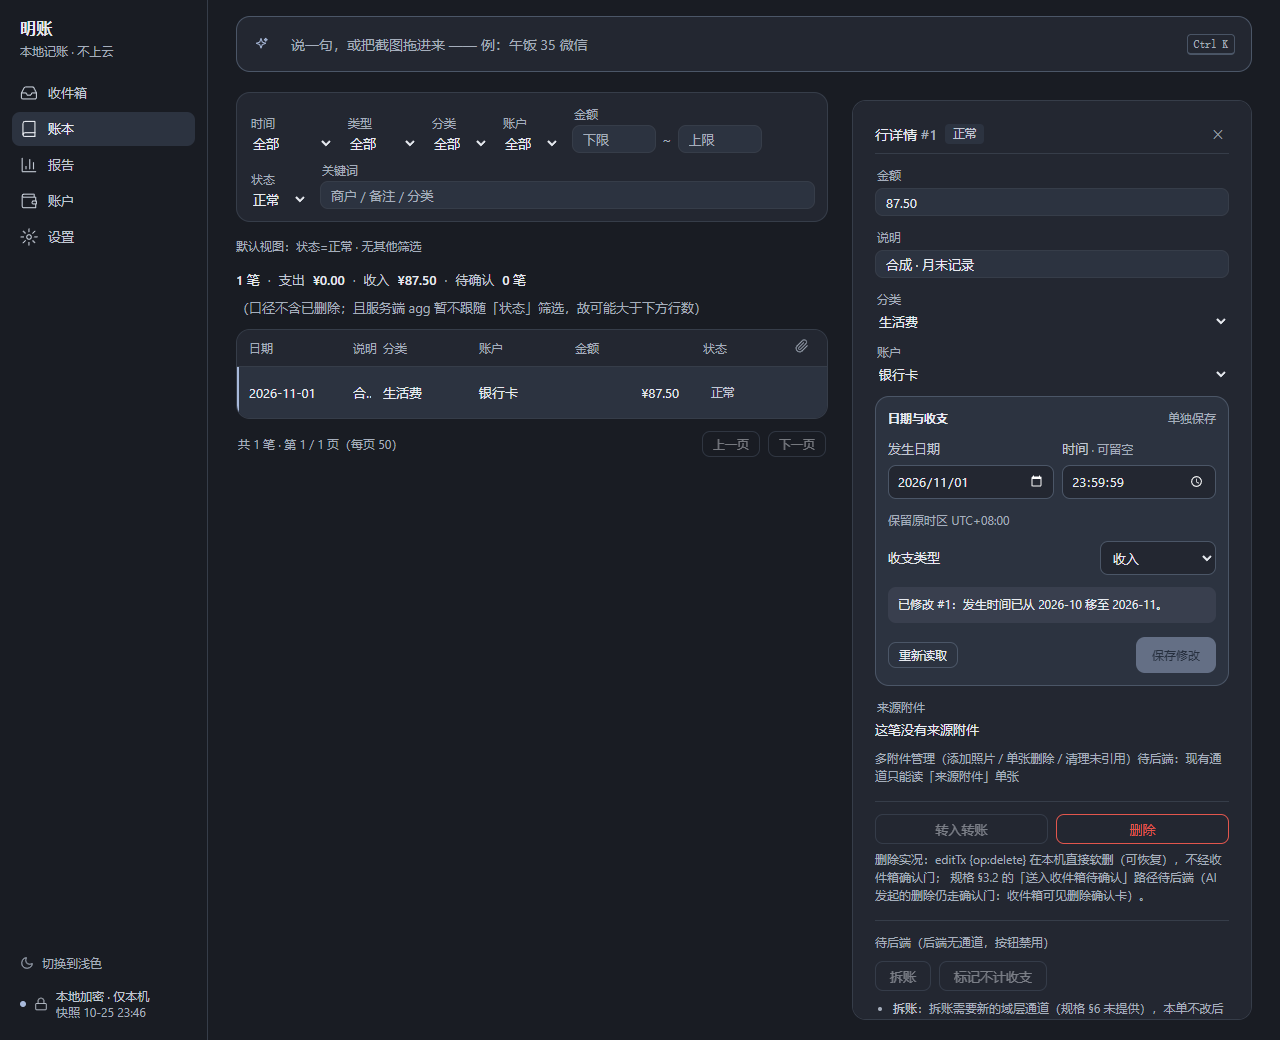
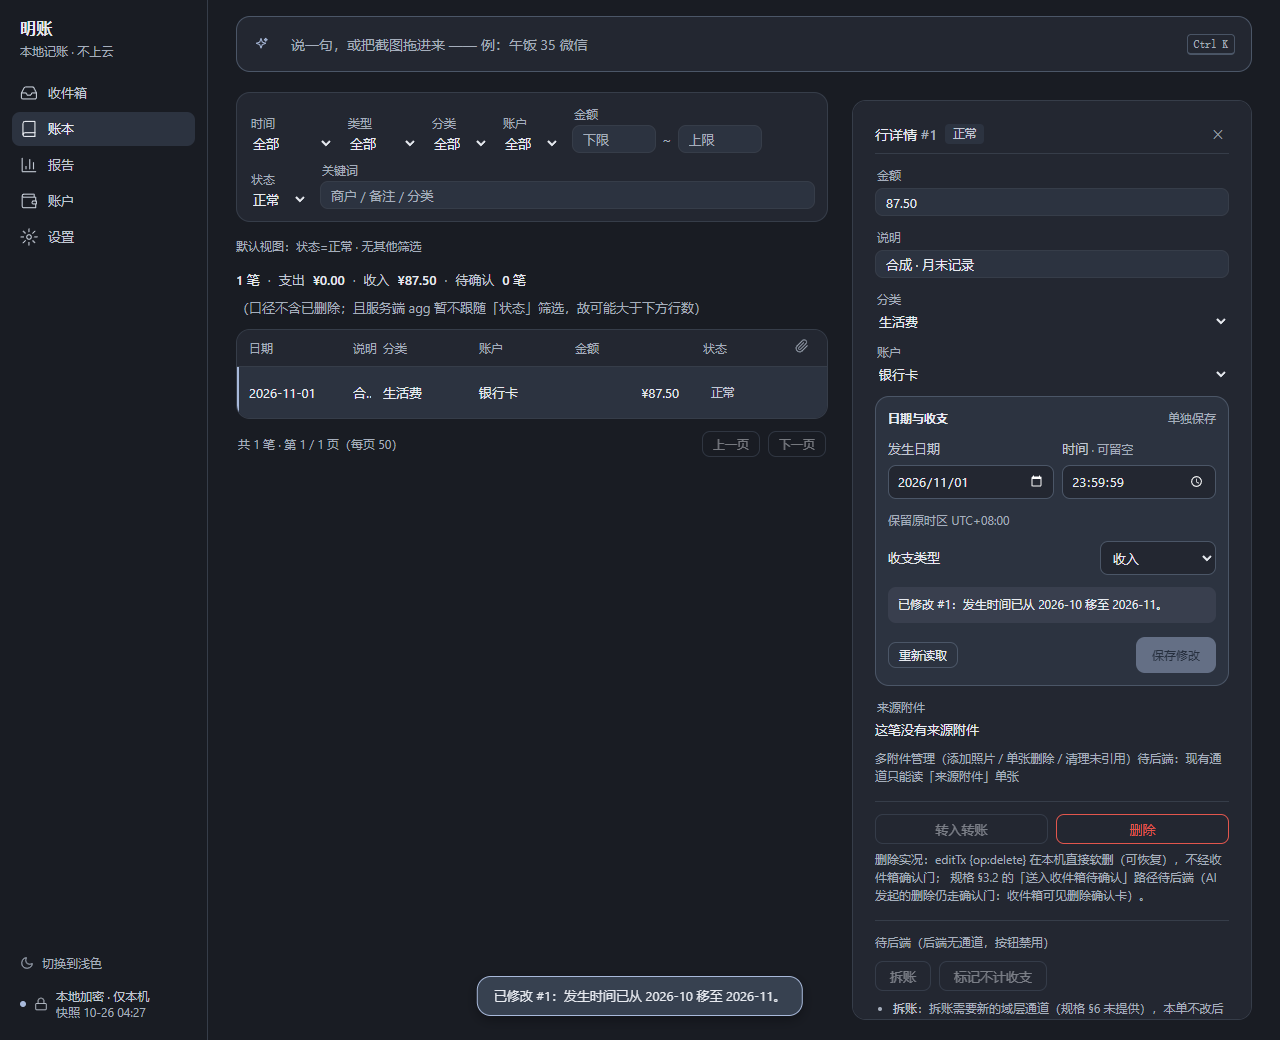
fix(ledger): retain date edit receipt after filtered detail unmounts (#26)

Changed region(s): [[0.375, 0.9231, 0.625, 0.9846], [0.0938, 0.9538, 0.125, 0.9846]]

diff --git a/tests/ui/transaction-date-type-filtered.spec.ts b/tests/ui/transaction-date-type-filtered.spec.ts
@@ -1,0 +1,137 @@
+// Parent-owned SPEC-F1 regression: real Electron, synthetic paired data/profile only.
+import { test, expect, _electron, type ElectronApplication, type Page } from '@playwright/test'
+import { mkdtempSync, writeFileSync } from 'node:fs'
+import { tmpdir } from 'node:os'
+import { join } from 'node:path'
+
+let app: ElectronApplication | undefined
+let page: Page
+let data: string
+let txId: number
+const errors: string[] = []
+const sourceDate = '2036-05-31T18:07:26+05:45'
+const targetDate = '2036-06-01T18:07:26+05:45'
+
+async function sql(statement: string, params: unknown[] = []): Promise<any[]> {
+  return app!.evaluate(({ safeStorage }, input) => {
+    const fs = process.getBuiltinModule('fs')!
+    const path = process.getBuiltinModule('path')!
+    const mod = process.getBuiltinModule('module')!
+    if (!path.basename(input.data).startsWith('mz-date-receipt-')) throw Error('NOT SYNTHETIC')
+    const file = path.join(input.data, 'mingzhang.db')
+    if (!fs.existsSync(file)) throw Error('MISSING SYNTHETIC DB')
+    const Constructor = mod.createRequire(path.join(process.cwd(), 'package.json'))('better-sqlite3-multiple-ciphers')
+    const key = safeStorage.decryptString(fs.readFileSync(path.join(input.data, 'secrets/db.key')))
+    const db = new Constructor(file, { fileMustExist: true })
+    try {
+      db.pragma(`key = "x'${key}'"`)
+      db.pragma("cipher='chacha20'")
+      db.pragma('foreign_keys=ON')
+      if (input.statement.startsWith('SELECT')) return db.prepare(input.statement).all(...input.params)
+      db.prepare(input.statement).run(...input.params)
+      return []
+    } finally {
+      db.close()
+    }
+  }, { data, statement, params })
+}
+
+async function open(filtered: boolean): Promise<void> {
+  await page.getByTestId('nav-ledger').click()
+  await page.getByTestId('ledger-f-state').selectOption('confirmed')
+  await page.getByTestId('ledger-f-month').selectOption(filtered ? 'custom' : 'all')
+  if (filtered) await page.getByTestId('ledger-f-month-custom').fill('2036-05')
+  await page.locator(`[data-testid="ledger-row"][data-id="${txId}"]`).click()
+  await expect(page.getByTestId('ledger-date-type')).toHaveAttribute('aria-busy', 'false')
+  await expect(page.getByTestId('ledger-edit-date')).toHaveValue('2036-05-31')
+}
+
+const facts = async () => ({
+  transactions: await sql('SELECT * FROM transactions ORDER BY id'),
+  audits: await sql('SELECT * FROM audit_log ORDER BY id'),
+  pending: await sql('SELECT * FROM pending_clarifications ORDER BY id'),
+  sequence: await sql('SELECT * FROM sqlite_sequence ORDER BY name'),
+})
+
+test.beforeEach(async () => {
+  errors.length = 0
+  data = mkdtempSync(join(tmpdir(), 'mz-date-receipt-data-'))
+  const profile = mkdtempSync(join(tmpdir(), 'mz-date-receipt-profile-'))
+  const theme = test.info().title.includes('dark') ? 'dark' : 'light'
+  writeFileSync(join(data, 'config.json'), JSON.stringify({
+    version: 2, onboarded: true, mock: false, theme, providers: [], activeProviderId: null,
+  }))
+  app = await _electron.launch({
+    executablePath: process.env.MZ_PACKAGE_EXE,
+    args: [...(process.env.MZ_PACKAGE_EXE ? [] : ['.']), `--user-data-dir=${profile}`],
+    env: { ...process.env, MZ_DATA_DIR: data } as Record<string, string>,
+  })
+  page = await app.firstWindow()
+  page.on('pageerror', (error) => errors.push(String(error)))
+  await page.waitForSelector('.mz-shell')
+  const category = (await sql("SELECT id FROM categories WHERE kind='expense' AND name='购物'"))[0].id
+  await sql("INSERT INTO transactions(account_id,category_id,amount_cents,type,occurred_at,state,merchant,source_message_id,created_at,updated_at) VALUES(3,?,26317,'expense',?,'confirmed','合成筛选回执','synthetic-filtered-receipt','2020-01-02','2020-01-03')", [category, sourceDate])
+  txId = (await sql("SELECT id FROM transactions WHERE source_message_id='synthetic-filtered-receipt'"))[0].id
+})
+
+test.afterEach(async () => {
+  await app?.close()
+  app = undefined
+})
+
+test('全部时间跨月保存保留原行详情与原有局部成功回执（正控）', async () => {
+  await open(false)
+  await page.getByTestId('ledger-edit-date').fill('2036-06-01')
+  await page.getByTestId('ledger-save-date-type').click()
+  await expect(page.getByTestId('ledger-detail')).toBeVisible()
+  await expect(page.getByTestId('ledger-date-type-notice')).toContainText('2036-06')
+  expect((await sql('SELECT occurred_at FROM transactions WHERE id=?', [txId]))[0].occurred_at).toBe(targetDate)
+  expect(errors).toEqual([])
+})
+
+for (const theme of ['light', 'dark']) {
+  test(`月份筛选跨月移出后外层成功回执仍可见且账审计准确 ${theme}`, async () => {
+    await open(true)
+    const before = (await sql('SELECT * FROM transactions WHERE id=?', [txId]))[0]
+    const pending = await sql('SELECT * FROM pending_clarifications ORDER BY id')
+    await page.getByTestId('ledger-edit-date').fill('2036-06-01')
+    await page.getByTestId('ledger-save-date-type').click()
+    await expect(page.locator(`[data-testid="ledger-row"][data-id="${txId}"]`)).toHaveCount(0)
+    await expect(page.getByTestId('ledger-detail')).toHaveCount(0)
+    const toast = page.getByTestId('toast')
+    // This assertion is the old production UI's actual RED, not a static-code assertion.
+    await expect(toast).toBeVisible({ timeout: 3000 })
+    await expect(toast).toContainText('2036-05')
+    await expect(toast).toContainText('2036-06')
+    expect(await toast.evaluate((element) => element.closest('[data-testid="ledger-detail"]') === null)).toBe(true)
+    await page.evaluate(() => new Promise<void>((resolve) => requestAnimationFrame(() => requestAnimationFrame(() => resolve()))))
+    await expect(toast).toBeVisible()
+    await page.screenshot({ path: test.info().outputPath(`filtered-toast-${theme}.png`) })
+    const after = (await sql('SELECT * FROM transactions WHERE id=?', [txId]))[0]
+    expect(after).toEqual({ ...before, occurred_at: targetDate, updated_at: after.updated_at })
+    expect(await sql('SELECT * FROM pending_clarifications ORDER BY id')).toEqual(pending)
+    const audits = await sql("SELECT * FROM audit_log WHERE entity_type='transaction' AND entity_id=? AND change_type='update'", [txId])
+    expect(audits).toHaveLength(1)
+    expect(audits[0].changed_by).toBe('user')
+    expect(JSON.parse(audits[0].before_value).occurred_at).toBe(sourceDate)
+    expect(JSON.parse(audits[0].after_value).occurred_at).toBe(targetDate)
+    expect(await sql("SELECT COALESCE(SUM(amount_cents),0) cents FROM v_reportable_transactions WHERE occurred_at LIKE '2036-05%'")).toEqual([{ cents: 0 }])
+    expect(await sql("SELECT SUM(amount_cents) cents FROM v_reportable_transactions WHERE occurred_at LIKE '2036-06%'")).toEqual([{ cents: 26317 }])
+    expect(await page.evaluate(() => window.mz.listLedger({ month: '2036-05', state: 'confirmed' }))).toMatchObject({ items: [] })
+    expect(errors).toEqual([])
+  })
+}
+
+test('月份筛选中的过期保存不发成功回执，不重放草稿且所有业务表零写', async () => {
+  await open(true)
+  await page.getByTestId('ledger-edit-date').fill('2036-06-01')
+  await sql("UPDATE transactions SET merchant='合成并发修改' WHERE id=?", [txId])
+  const before = await facts()
+  await page.getByTestId('ledger-save-date-type').click()
+  await expect(page.getByTestId('ledger-date-type-error')).toContainText('交易已变化')
+  await expect(page.getByTestId('toast')).toHaveCount(0)
+  await expect(page.getByTestId('ledger-edit-date')).toHaveValue('2036-06-01')
+  await expect(page.getByTestId('ledger-detail')).toBeVisible()
+  expect(await facts()).toEqual(before)
+  expect(errors).toEqual([])
+})

diff --git a/src/renderer/src/views/TransactionDateTypeEditor.tsx b/src/renderer/src/views/TransactionDateTypeEditor.tsx
@@ -16,7 +16,7 @@ export function TransactionDateTypeEditor({ txId, revision, disabled, onBusyChan
   revision: TxDetailDTO
   disabled: boolean
   onBusyChange: (busy: boolean) => void
-  onSaved: () => Promise<void>
+  onSaved: (message: string) => Promise<void>
 }): ReactElement {
   const { categories } = useInbox()
   const [form, setForm] = useState<TransactionEditFormDTO | null>(null)
@@ -88,7 +88,7 @@ export function TransactionDateTypeEditor({ txId, revision, disabled, onBusyChan
       const result = await window.mz.editTx(txId, { op: 'dateType', expectedVersion: form.version, fields })
       if (result.status !== 'ok') throw new Error(result.message)
       if (generation.current === request) setNotice(result.message)
-      await onSaved()
+      await onSaved(result.message)
     } catch (e) {
       // Keep the draft and its original version. Never refresh/rebase and replay a rejected write.
       if (generation.current === request) setError(humanError(e))

diff --git a/src/renderer/src/views/LedgerDetail.tsx b/src/renderer/src/views/LedgerDetail.tsx
@@ -137,7 +137,9 @@ export function LedgerDetail({
     [busy, txId, load, onChanged, onNotice, showFlash],
   )
 
-  const afterDateSaved = useCallback(async (): Promise<void> => {
+  const afterDateSaved = useCallback(async (message: string): Promise<void> => {
+    // Filters may unmount this detail after reload; the shell owns the lasting receipt.
+    onNotice(message, 'ok')
     await load()
     onChanged()
     void refresh().catch(() => onNotice('已保存，待办刷新失败，请重新读取。', 'info'))
